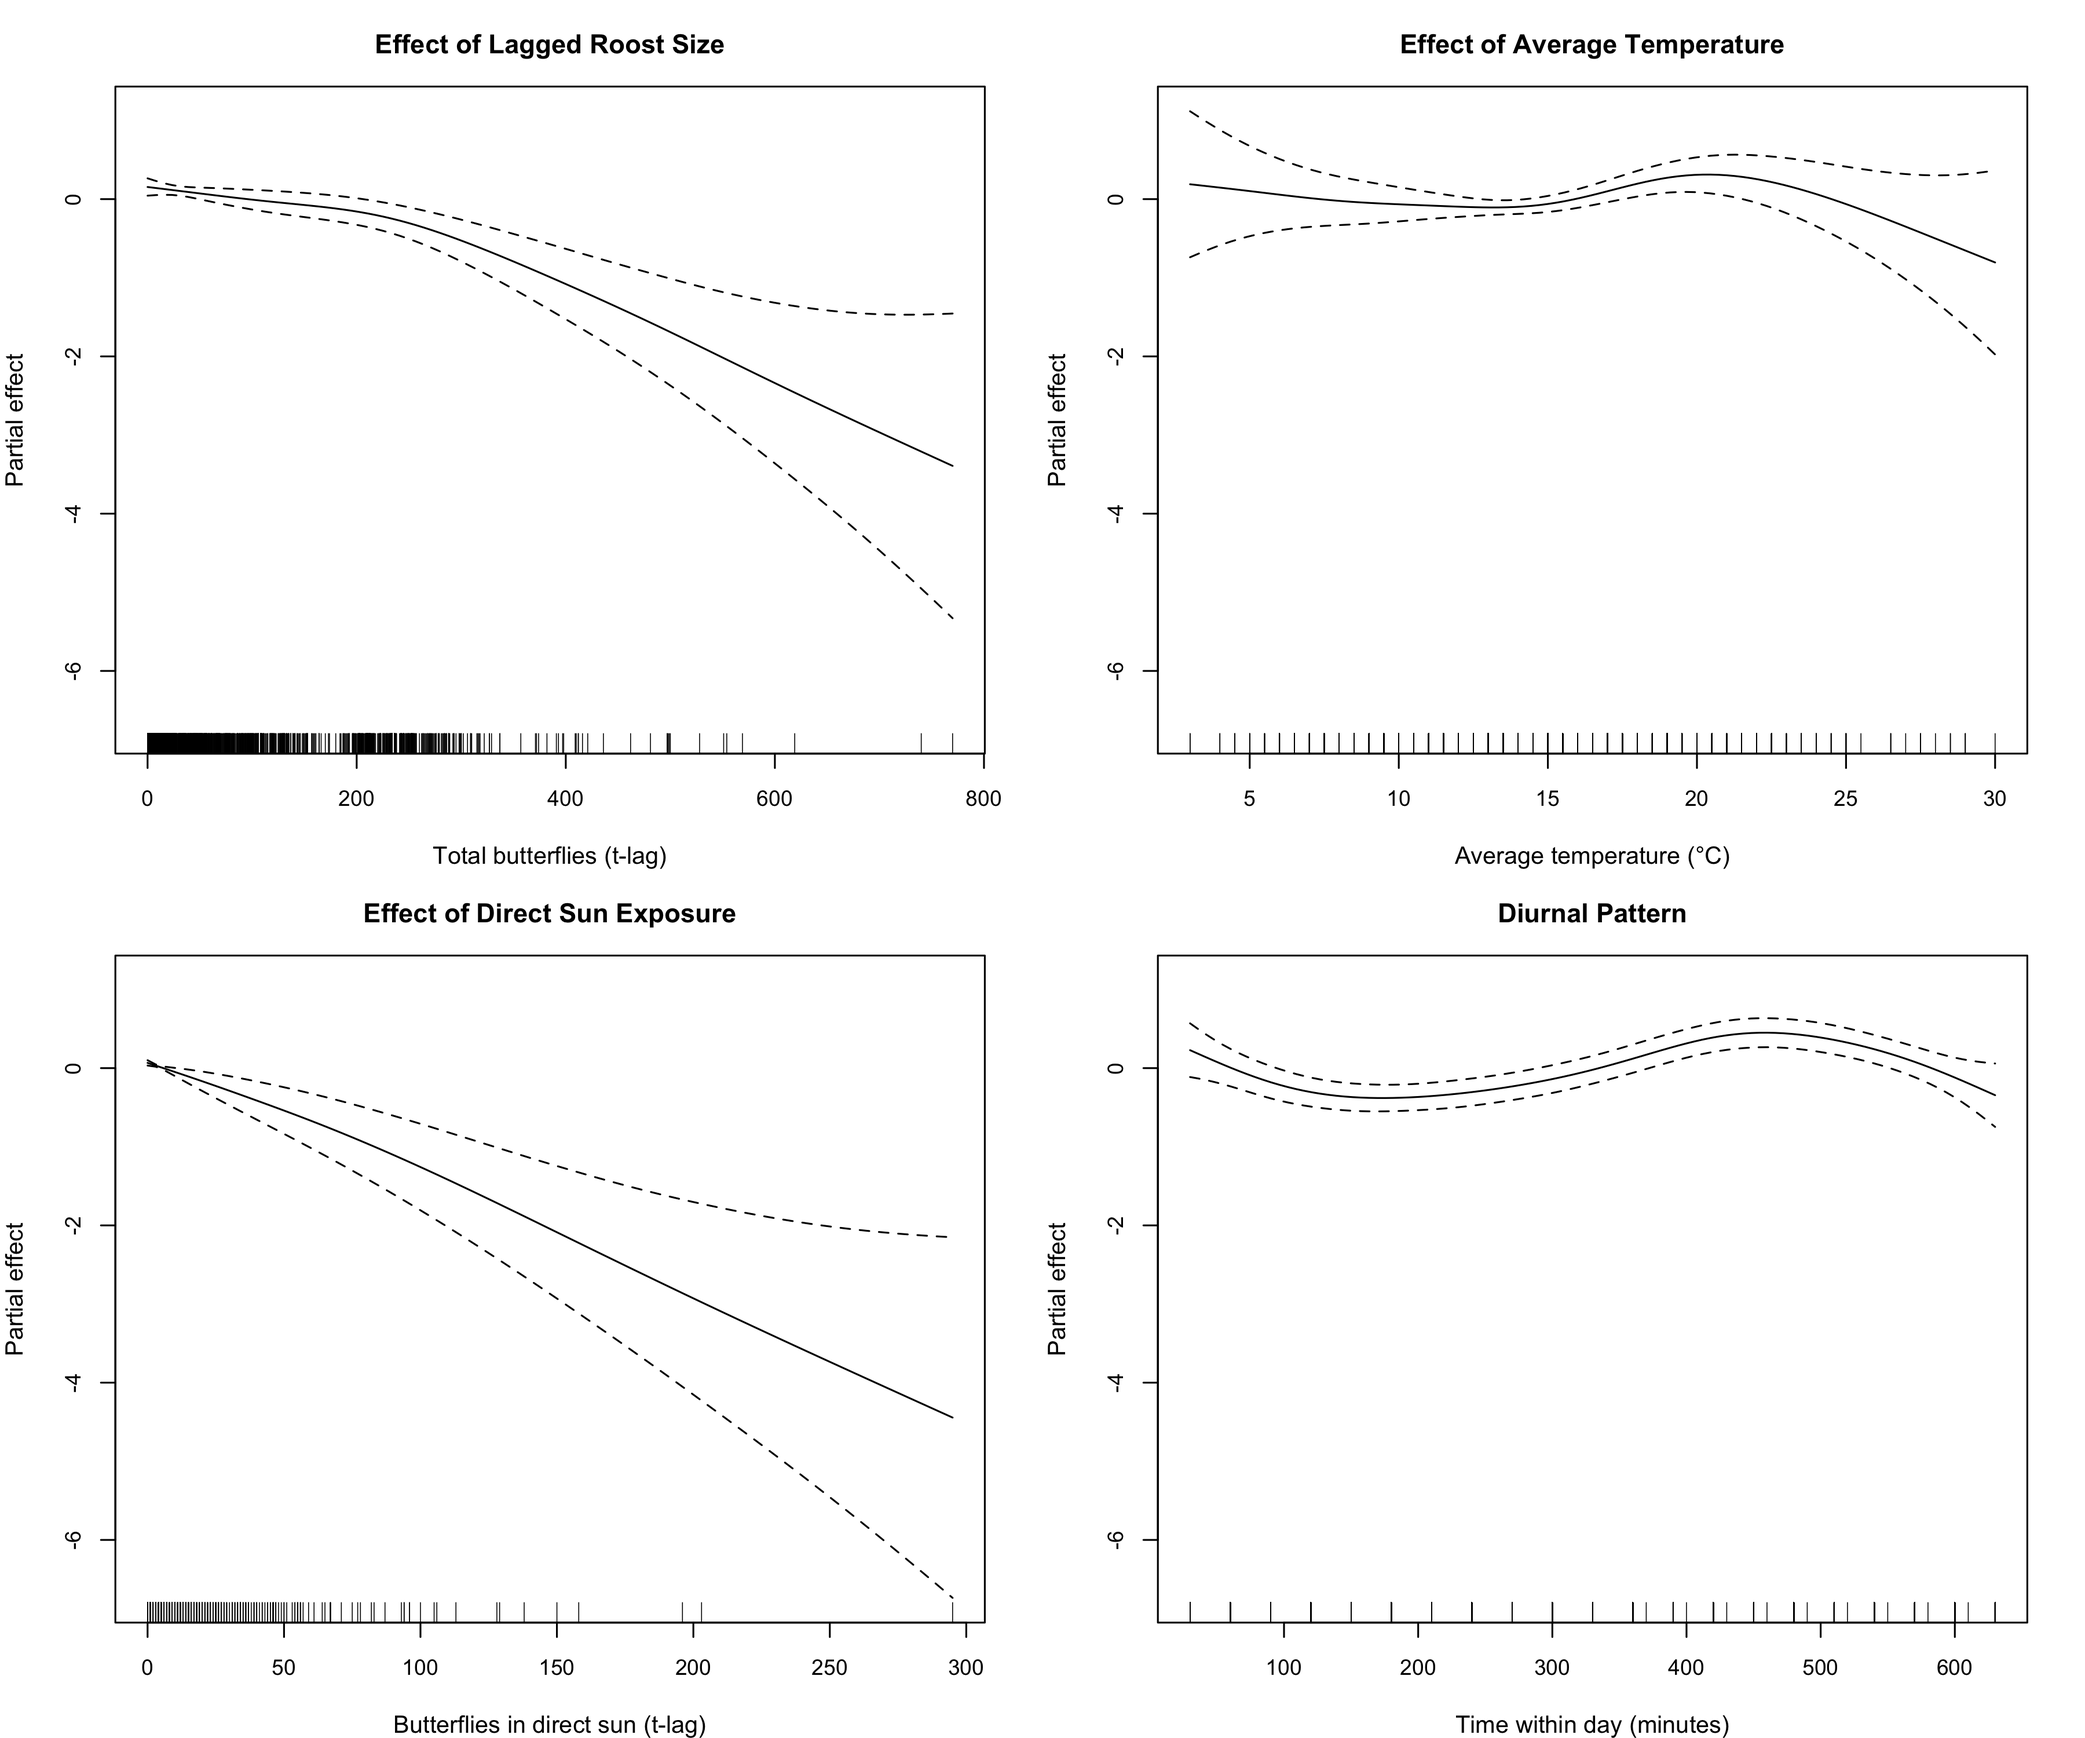
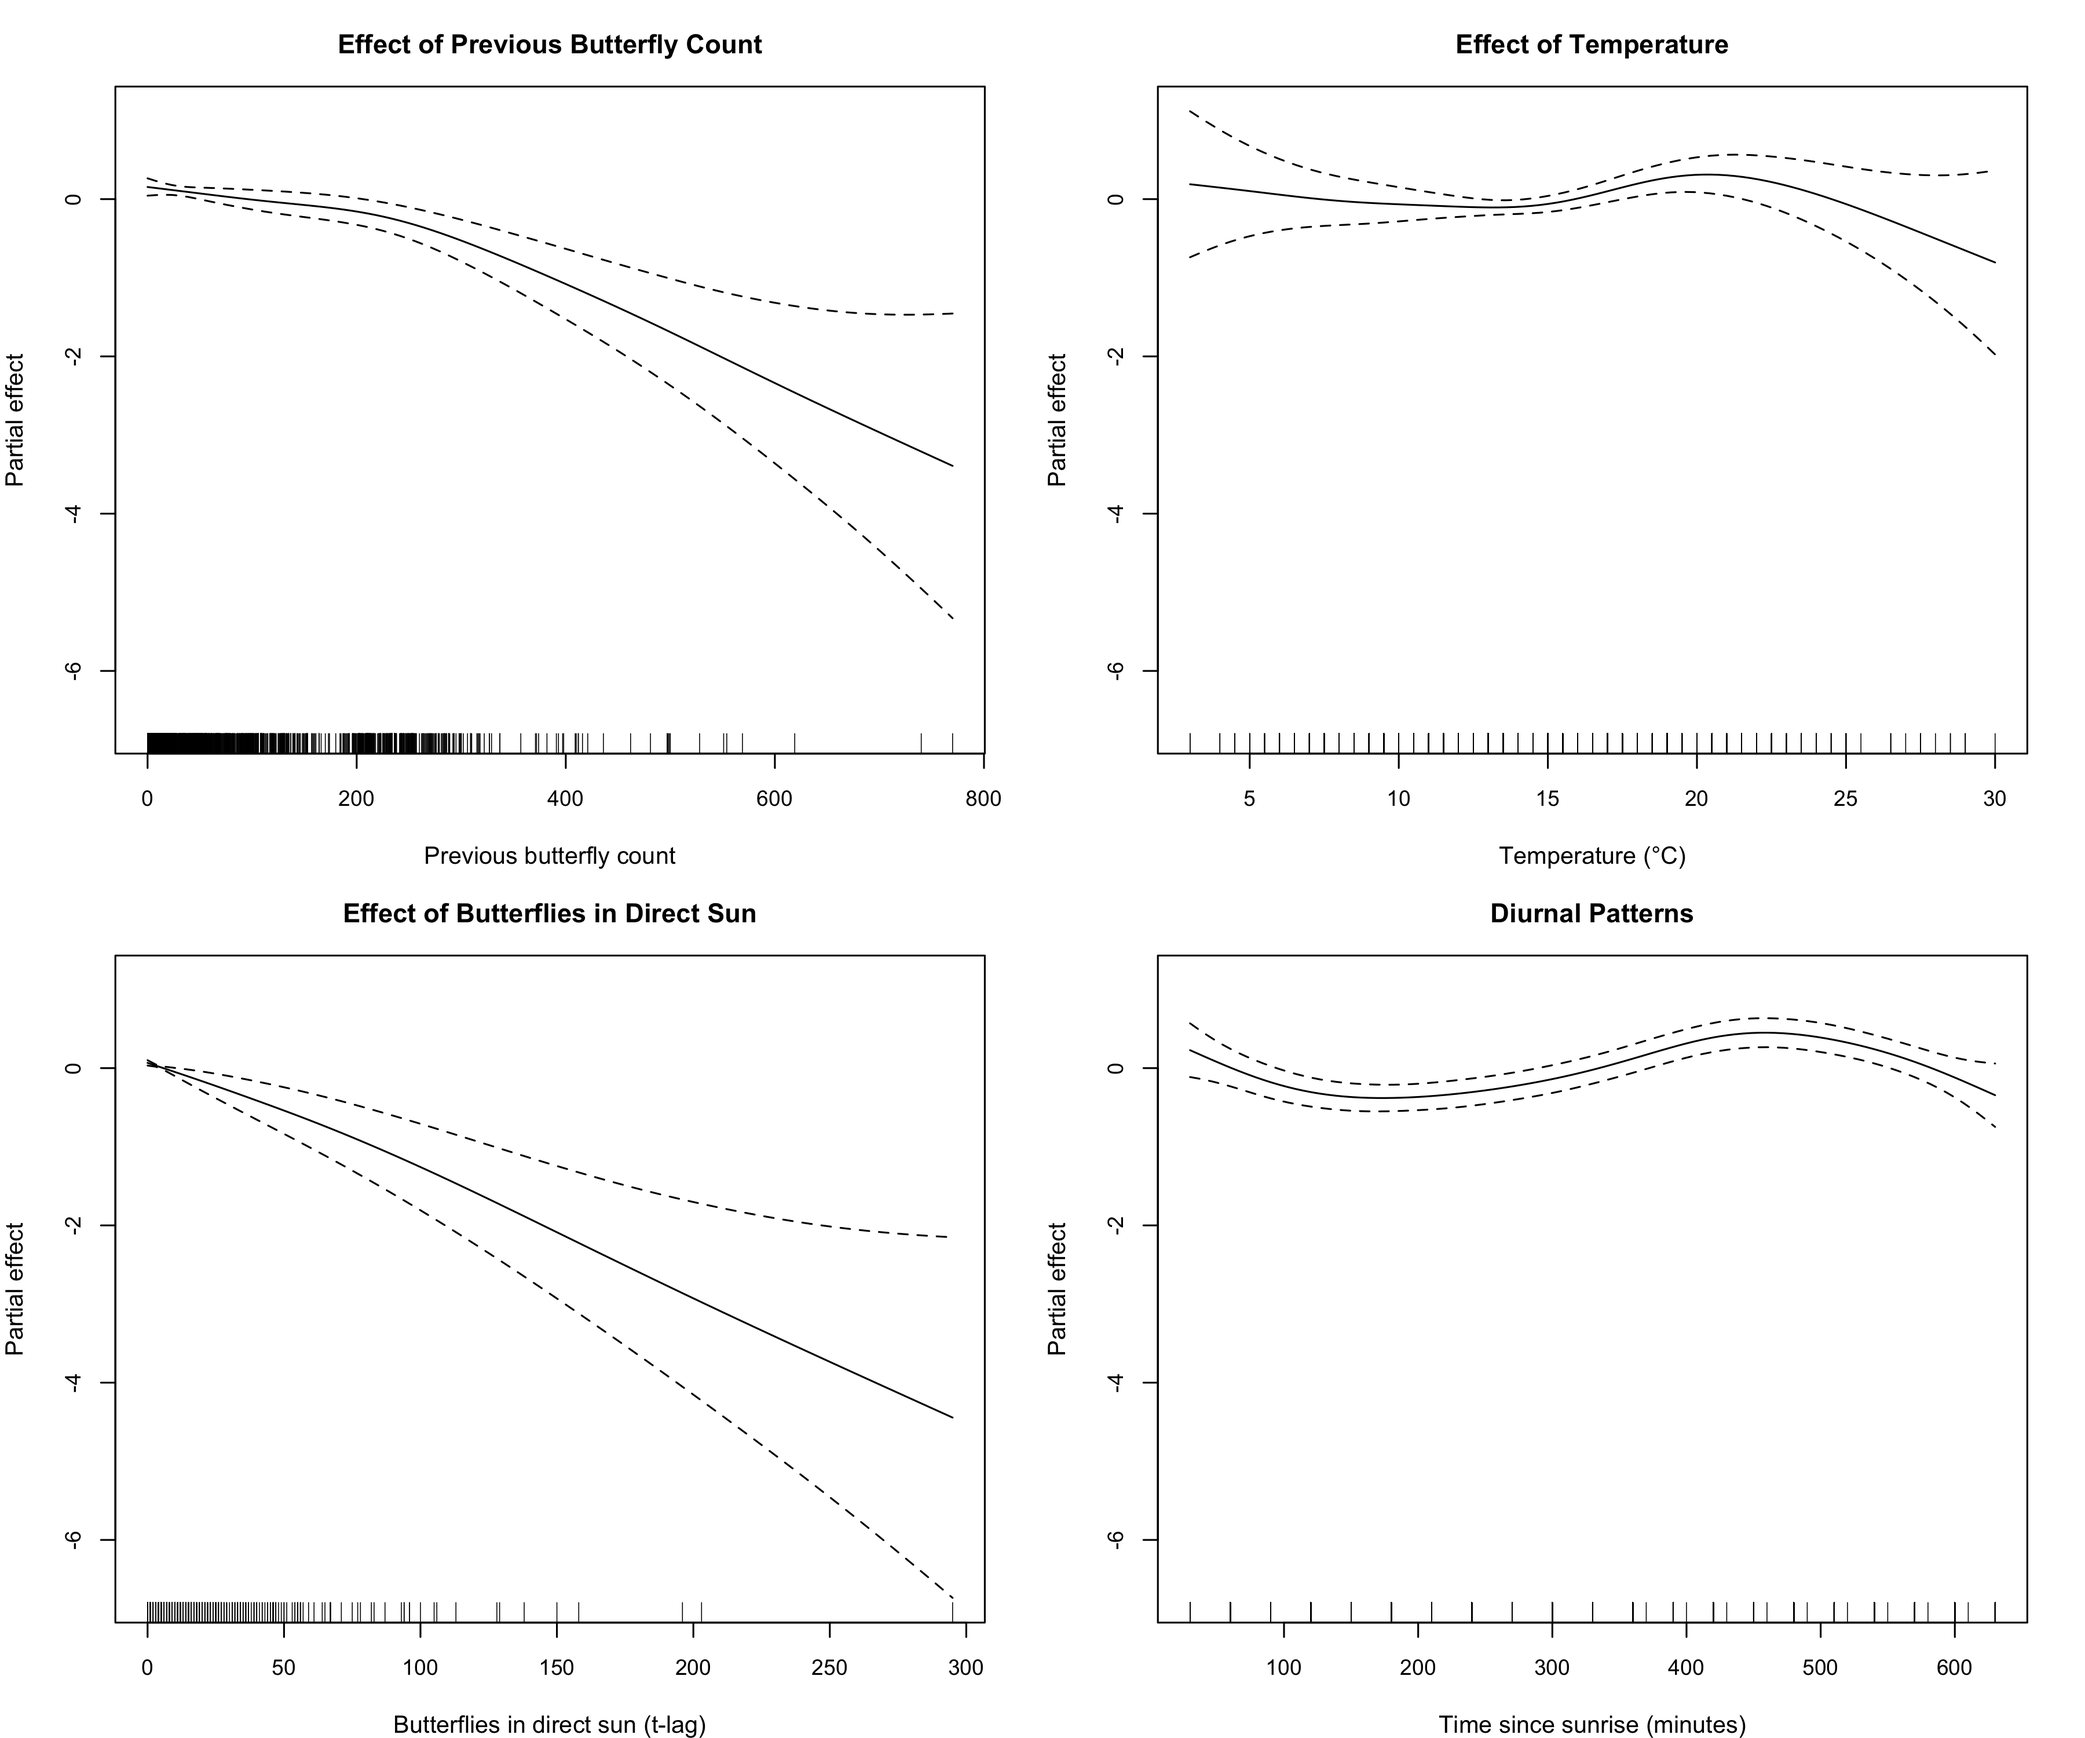
update figure names

diff --git a/thesis_exports/tables/model_selection_table.tex b/thesis_exports/tables/model_selection_table.tex
@@ -6,25 +6,25 @@
 \toprule
 Model ID & Model Terms & AIC & ΔAIC & AIC Weight & df & Wind p-value\\
 \midrule
-M23 & • Lagged Total Butterflies
-• Average Temperature
-• Butterflies in Direct Sunlight
-• Minutes Since Dawn & 8081.848 & 0.000 & 0.8803 & 14 & NA\\
-M22 & • Lagged Total Butterflies
-• Average Temperature (linear)
-• Butterflies in Direct Sunlight
-• Minutes Since Dawn & 8086.644 & 4.796 & 0.0800 & 13 & NA\\
-M24 & • Lagged Total Butterflies
-• Max Gust
-• Average Temperature
-• Butterflies in Direct Sunlight
-• Minutes Since Dawn & 8088.049 & 6.200 & 0.0397 & 16 & 0.218\\
-M47 & • Average Temperature
-• Butterflies in Direct Sunlight
-• Minutes Since Dawn & 8101.296 & 19.448 & 0.0001 & 12 & NA\\
-M17 & • Lagged Total Butterflies
-• Average Temperature
-• Butterflies in Direct Sunlight & 8105.876 & 24.028 & 0.0000 & 12 & NA\\
+M23 & • Previous butterfly count
+• Temperature
+• Butterflies in direct sun
+• Time since sunrise & 8081.848 & 0.000 & 0.8803 & 14 & NA\\
+M22 & • Previous butterfly count
+• Temperature (linear)
+• Butterflies in direct sun
+• Time since sunrise & 8086.644 & 4.796 & 0.0800 & 13 & NA\\
+M24 & • Previous butterfly count
+• Maximum wind speed
+• Temperature
+• Butterflies in direct sun
+• Time since sunrise & 8088.049 & 6.200 & 0.0397 & 16 & 0.218\\
+M47 & • Temperature
+• Butterflies in direct sun
+• Time since sunrise & 8101.296 & 19.448 & 0.0001 & 12 & NA\\
+M17 & • Previous butterfly count
+• Temperature
+• Butterflies in direct sun & 8105.876 & 24.028 & 0.0000 & 12 & NA\\
 \bottomrule
 \end{tabular}
 \end{table}

diff --git a/thesis_exports/tables/smooth_terms_summary.tex b/thesis_exports/tables/smooth_terms_summary.tex
@@ -6,10 +6,10 @@
 \toprule
   & Smooth Term & EDF & Ref. df & F & p-value\\
 \midrule
-s(total\_butterflies\_t\_lag) & Lagged roost size & 2.621 & 2.621 & 12.020 & 8.26e-07\\
-s(temperature\_avg) & Average temperature & 3.930 & 3.930 & 3.230 & 0.0283\\
-s(butterflies\_direct\_sun\_t\_lag) & Direct sun exposure & 1.534 & 1.534 & 19.356 & 1.22e-05\\
-s(time\_within\_day\_t) & Time within day & 4.898 & 4.898 & 8.901 & < 2e-16\\
+s(total\_butterflies\_t\_lag) & Previous butterfly count & 2.621 & 2.621 & 12.020 & 8.26e-07\\
+s(temperature\_avg) & Temperature & 3.930 & 3.930 & 3.230 & 0.0283\\
+s(butterflies\_direct\_sun\_t\_lag) & Butterflies in direct sun & 1.534 & 1.534 & 19.356 & 1.22e-05\\
+s(time\_within\_day\_t) & Time since sunrise & 4.898 & 4.898 & 8.901 & < 2e-16\\
 \bottomrule
 \end{tabular}
 \end{table}
